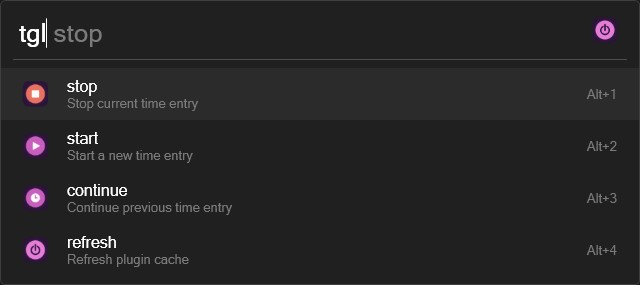
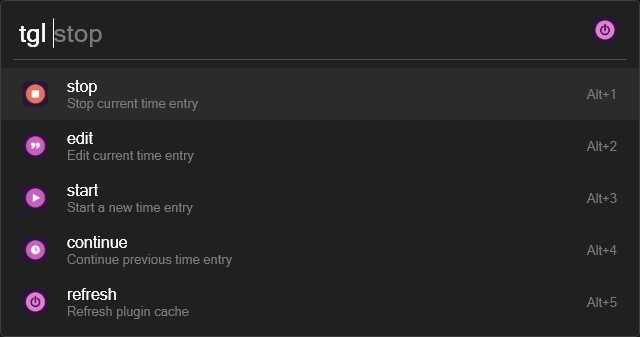
docs(readme): :memo: add edit command

diff --git a/README.md b/README.md
@@ -1,6 +1,7 @@
 <div align="center">
    <img src="assets/app.png" width="15%">
    <img src="assets/start.png" width="15%">
+   <img src="assets/edit.png" width="15%">
    <img src="assets/stop.png" width="15%">
    <img src="assets/continue.png" width="15%">
    <br>
@@ -30,6 +31,7 @@ A performant [Toggl Track](https://track.toggl.com/timer) plugin for [Flow Launc
 
 - Simple, user-friendly interface
 - Start new time entries
+- Edit currently running time entries
 - Stop currently running time entries
 - Continue a previously tracked time entry
 - Support for projects, clients, and workspaces
@@ -40,9 +42,12 @@ A performant [Toggl Track](https://track.toggl.com/timer) plugin for [Flow Launc
 
 # Screenshots
 
+<!-- TODO: update -->
 ![Default hotkeys](./assets/screenshots/default.jpg)
 
 ![Project selection](./assets/screenshots/start.jpg)
+
+![Editing running time entry](./assets/screenshots/edit.jpg)
 
 ![Stopping running time entry](./assets/screenshots/stop.jpg)
 
